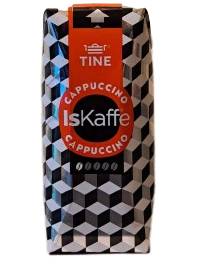
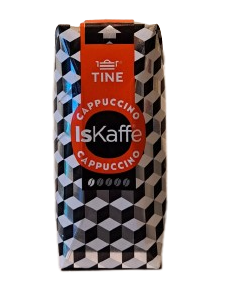
Product fix
Fixed the size of some of the products, also tried to fix the whitespace between the the products

diff --git a/price/code.js b/price/code.js
@@ -45,7 +45,7 @@ class SpecialProduct {
     this.info = info;
     this.price = price;
     this.path = path;
-    let file_name = path + ".webp";
+    let file_name = path + ".png";
 
     WeeklyProduct.innerHTML += `
     <br>
@@ -71,7 +71,7 @@ weekly.push(new SpecialProduct("Brownies2", "657890 kcal, Allergier: Gluten", "2
 
 /* ---- Products ---- */
 
-var style_wanted = "width: 250px";
+var style_wanted = "width: 200px; margin-bottom: -25px";
 
 var width_wanted = 0;
 
@@ -82,7 +82,7 @@ const products = [];
 
   products.push(new Product("Eplejuice", "45 kcal, Allergier: Ingen", "20", "eple-juice", `${style_wanted}`));
 
-  products.push(new Product("Billys Pizza", "44 kcal, Allergier: Gluten, melk", "23", "billys", `${style_wanted}`));
+  products.push(new Product("Billys Pizza", "44 kcal, Allergier: Gluten, melk", "23", "billys", `width: 250px`));
 
   products.push(new Product("Go'Morgen® Skogsbær", "119 kcal, Allergier: hvete, melk", "13", "gomorgen-skogsbær", `${style_wanted}`));
 
